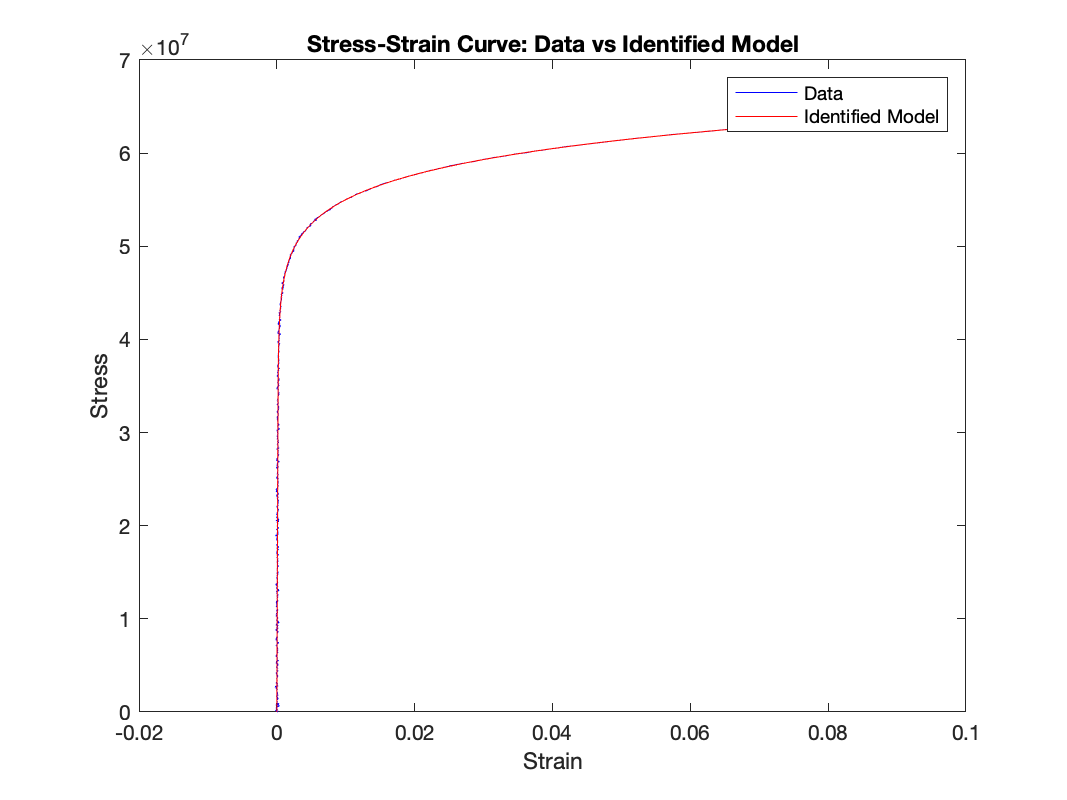
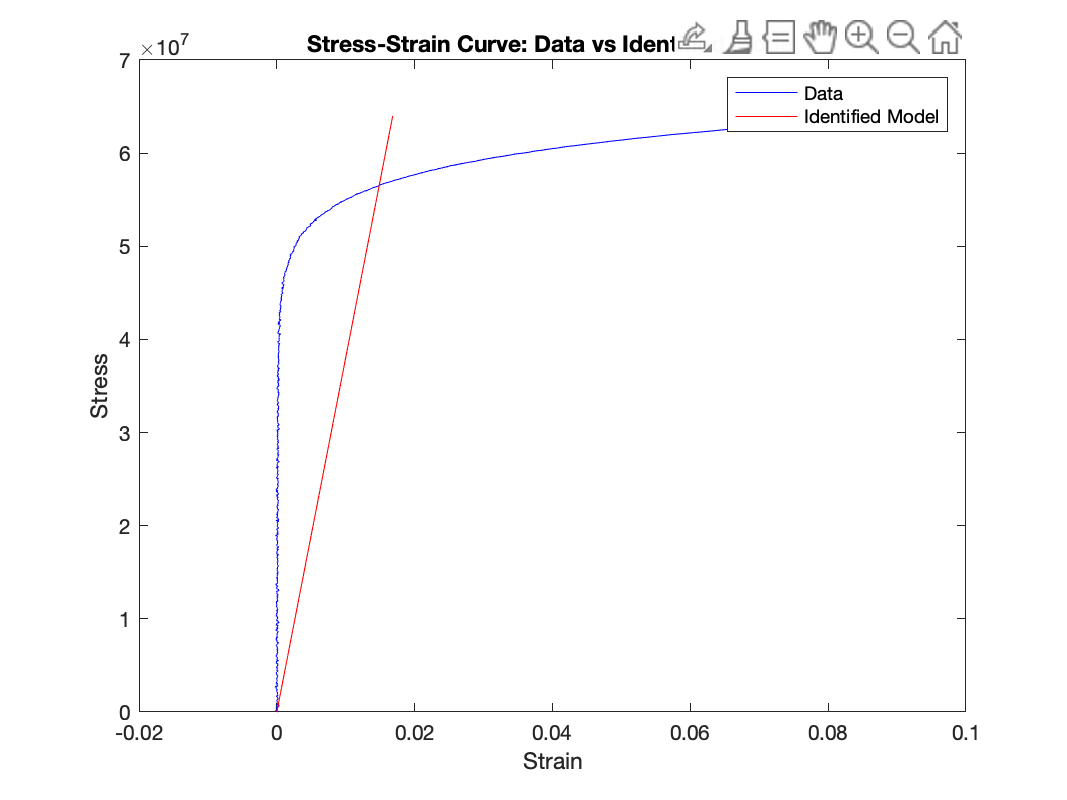
[base] refactor: some stupid shit and deleted some unnecessary files (tag:w)

Changed region(s): [[0.6186, 0.0, 0.8969, 0.0938], [0.2474, 0.7812, 0.2784, 0.875], [0.3402, 0.2188, 0.3711, 0.25]]

diff --git a/Project/Project.m b/Project/Project.m
@@ -18,8 +18,8 @@ k_range = [70:1:120].*1e+06;
 tspan = [0:0.1:80]'; % s
 
 % Noise level in percentage and regularization
-noise_level = 0.0;
-lambda = 0.0001;
+noise_level = 0;
+lambda = 0.00;
 % Define ODE function
 %[t, epsilon_exp]=ode45(@forward_sigma, tspan, 0, [], beam, dsigma);
 epsilon_exp = forana(beam, tspan, dsigma); % creation of synthetic data
@@ -55,17 +55,18 @@ misfit_plotter(e_range, k_range, n_range, epsilon_exp, t, beam, dsigma, 'K');
 
 
 % Global optimization using manually iterating over the range of parameters
-[misfit_values, E_opt, K_opt, n_opt] = misfit_global(epsilon_exp, t, beam, dsigma, e_range, k_range, n_range, lambda);
+%[misfit_values, E_opt, K_opt, n_opt] = misfit_global(epsilon_exp, t, beam, dsigma, e_range, k_range, n_range, lambda);
 % Define objective function
-fun = @(x) misfit_sig(x, epsilon_exp, t, beam, dsigma);
+fun = @(x) misfit_sig(x, epsilon_exp, t, beam, dsigma, lambda);
 
 % Define initial guess and search bounds
-x0 = [100e9; 60e7; 1]; % initial guess
+x0 = [100e9; 60e6; 11]; % initial guess
 
 % Optimization
 options = optimset('Display','iter'); % display iterations
 [x_opt, fval] = fminsearch(fun, x0, options); 
-[xsol,fval]=fminunc(fun, x0, optimset('Display','iter','TolFun',1e-6,'GradObj','off')) 
+[xsol,fval]=fminunc(fun, x0, optimset('Display','iter','TolFun',1e-6,'GradObj','off'));
+
 % Display results
 fprintf('Optimal parameter values using fminsearch:\n');
 fprintf('E = %g Pa\n', x_opt(1));
@@ -98,6 +99,7 @@ fun = @(x) misfit_sig(x, epsiexp, t, beam, dsigma);
 
 % Define initial guess and search bounds
 x0 = [beam.E; beam.K; beam.n]; % initial guess
+x0 = [300e9; 80e7; 12];
 
 % Optimization
 options = optimset('Display','iter'); % display iterations
